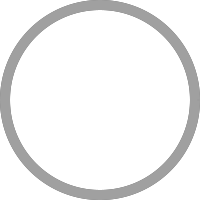
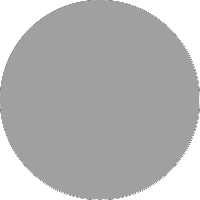
Improvements

diff --git a/frontend/lib/domain/game/node_component.dart b/frontend/lib/domain/game/node_component.dart
@@ -51,10 +51,14 @@ class NodeComponent extends SpriteComponent
     final bool shouldUpdate = node.update(dt);
 
     if (shouldUpdate && node.type.canBeCaptured) {
-      if (node.owner!.isEnemy) {
-        sprite = Sprites.NODE_ENEMY;
-      } else if (node.owner!.isSelf) {
-        sprite = Sprites.NODE_SELF;
+      if (node.hasOwner) {
+        if (node.owner!.isEnemy) {
+          sprite = Sprites.NODE_ENEMY;
+        } else if (node.owner!.isSelf) {
+          sprite = Sprites.NODE_SELF;
+        }
+      } else {
+        sprite = Sprites.NODE_NEUTRAL;
       }
     }
   }

diff --git a/frontend/lib/domain/state/game/ownership.dart b/frontend/lib/domain/state/game/ownership.dart
@@ -59,9 +59,11 @@ class Ownership {
           previousOwner: previousOwner,
           newOwner: newOwner,
         );
-
-        return true;
+      } else {
+        _owner = null;
       }
+
+      return true;
     }
 
     return false;
